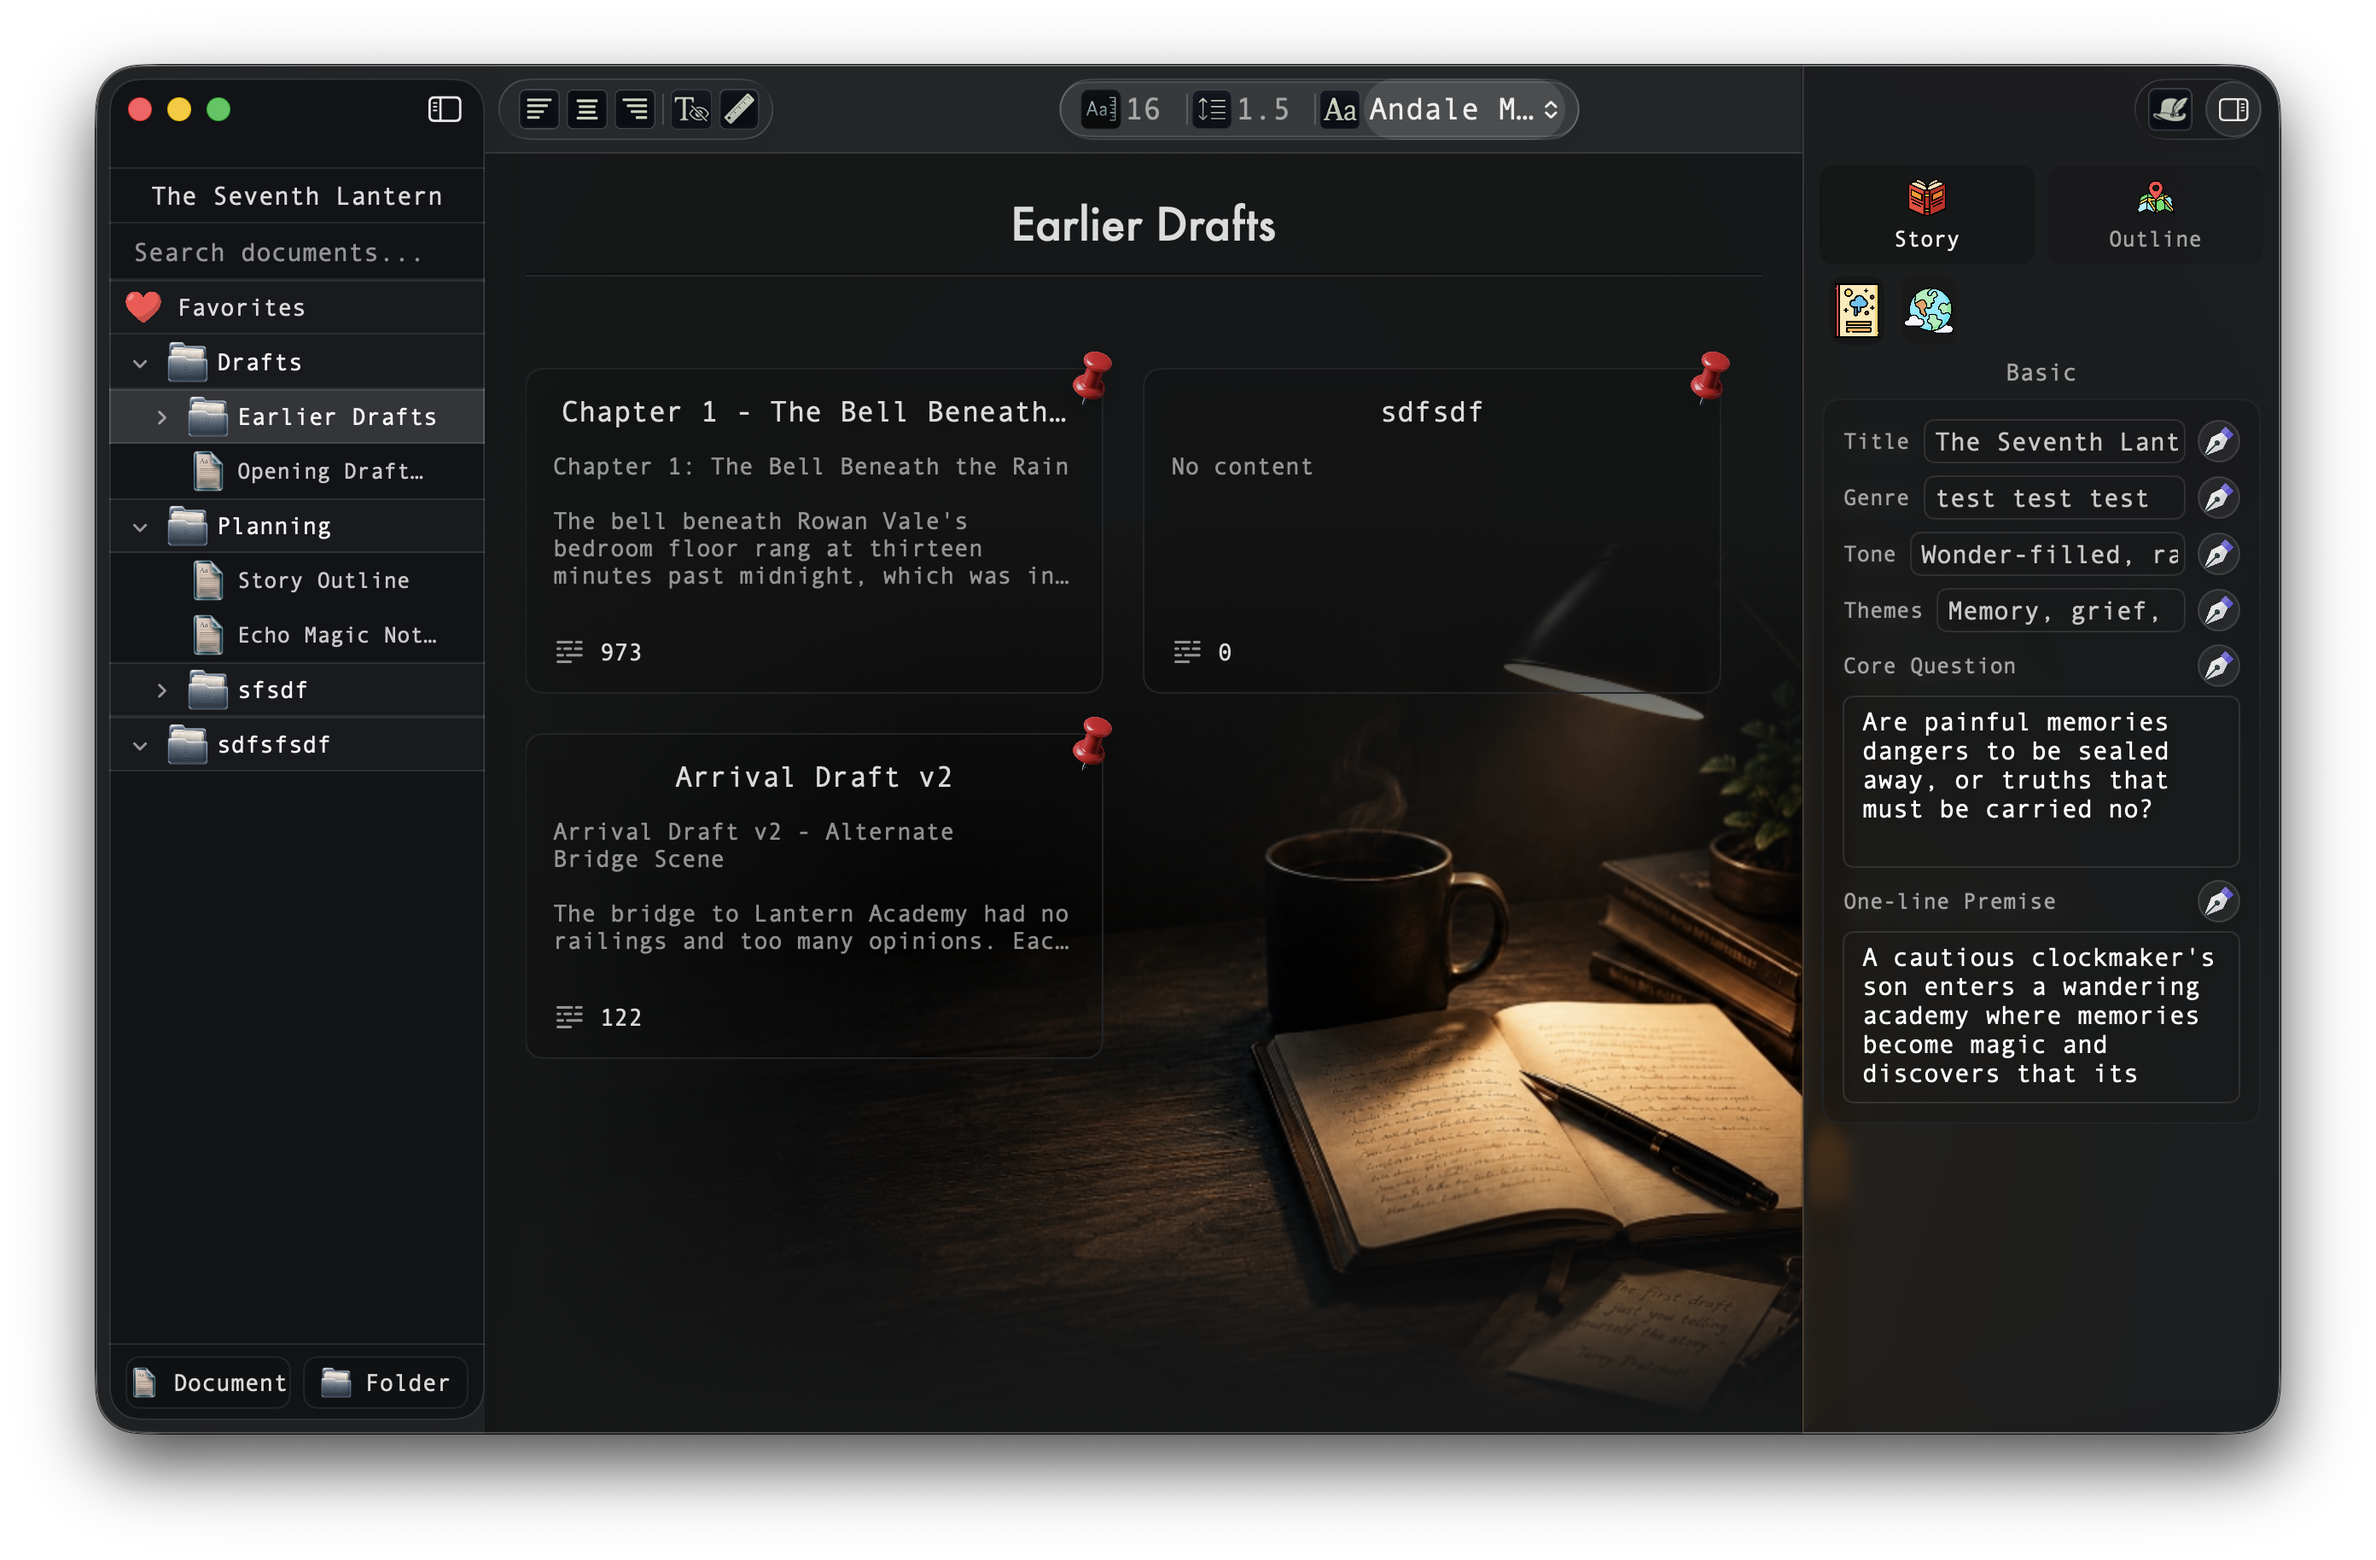
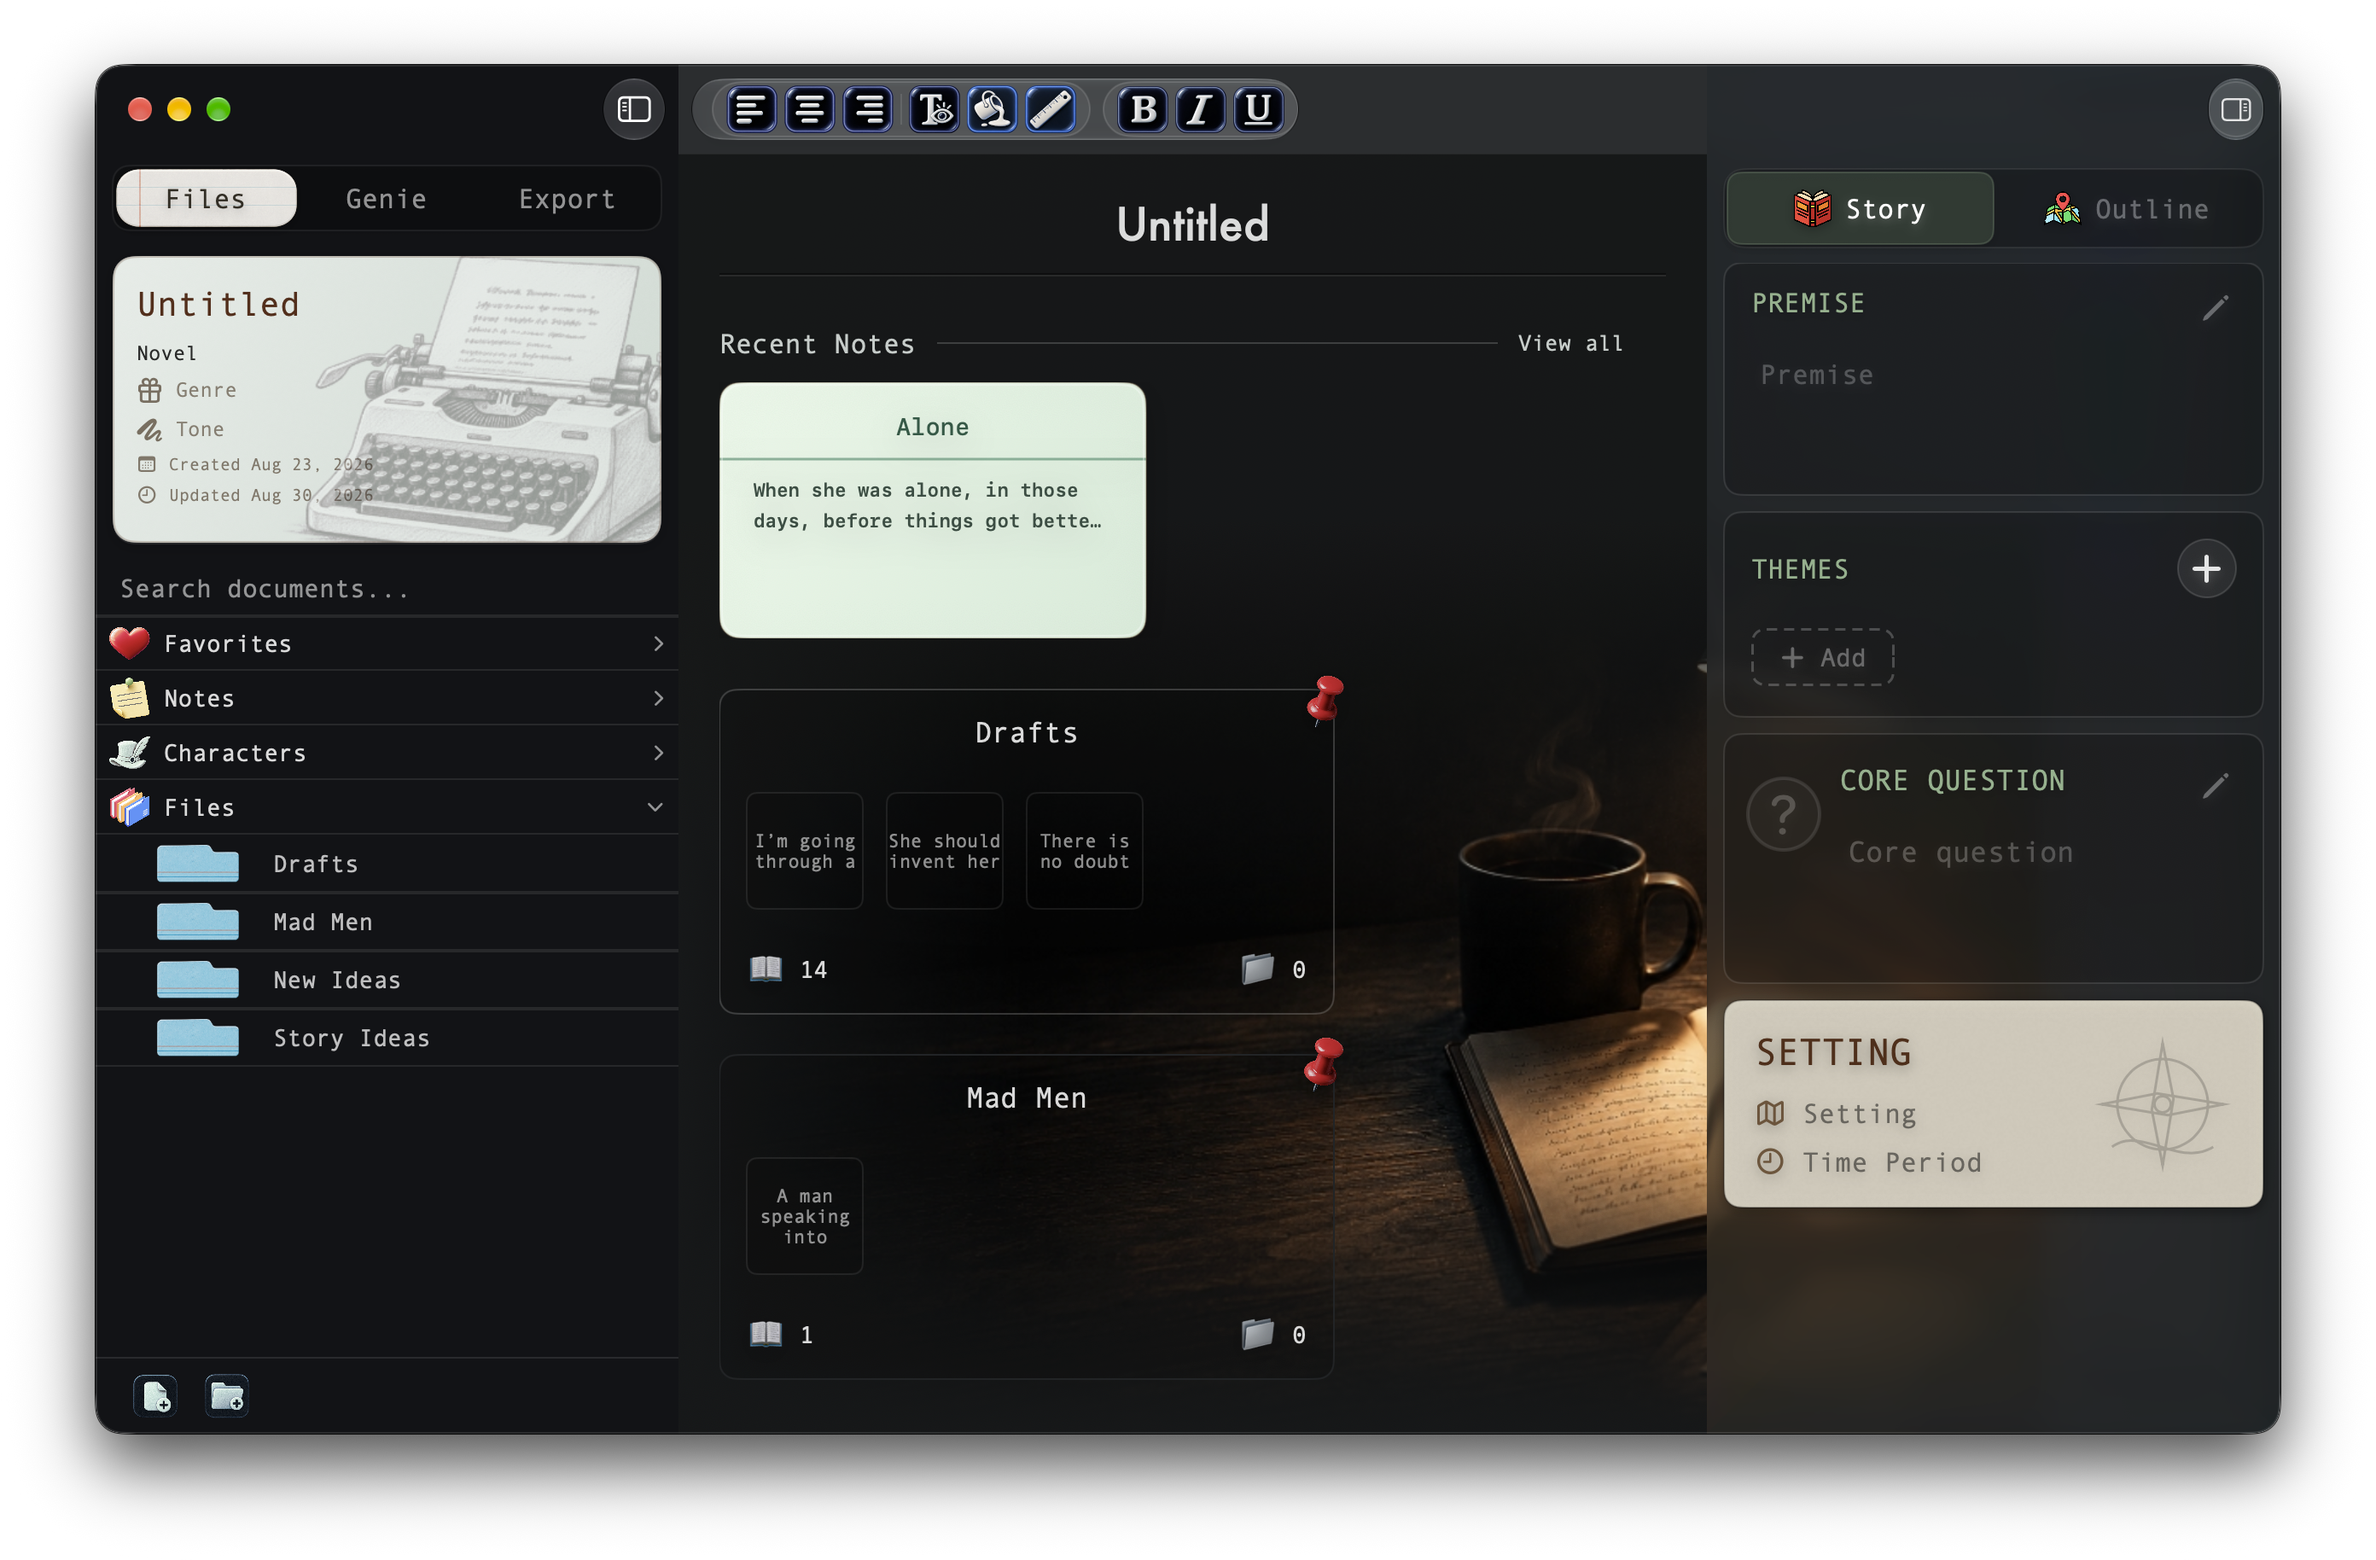
Update manuscriptOS preview screenshot

diff --git a/index.html b/index.html
@@ -25,8 +25,8 @@
         <img
           src="images/bg_start.png"
           alt="manuscriptOS project preview"
-          width="1900"
-          height="1248"
+          width="2784"
+          height="1828"
         >
       </section>
     </main>
